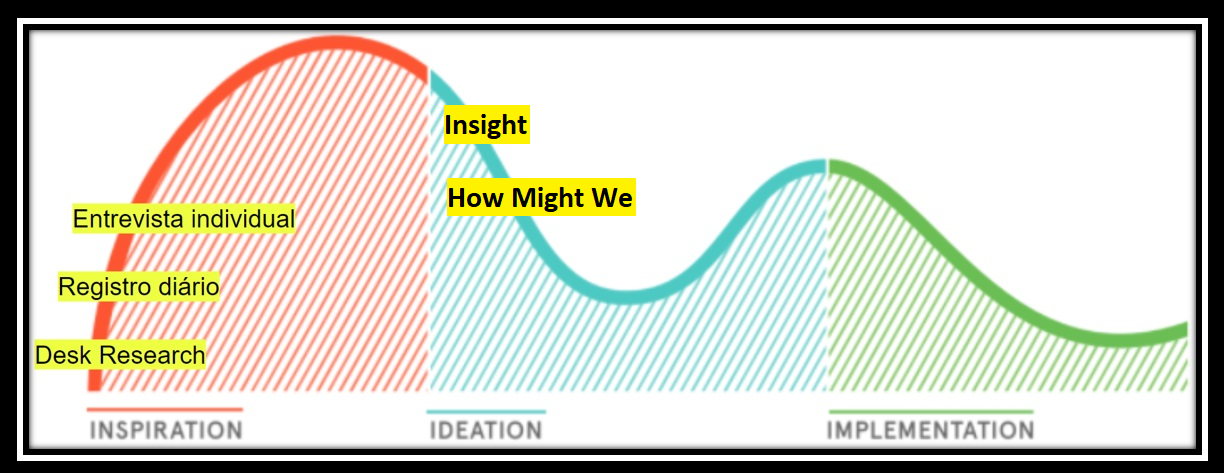
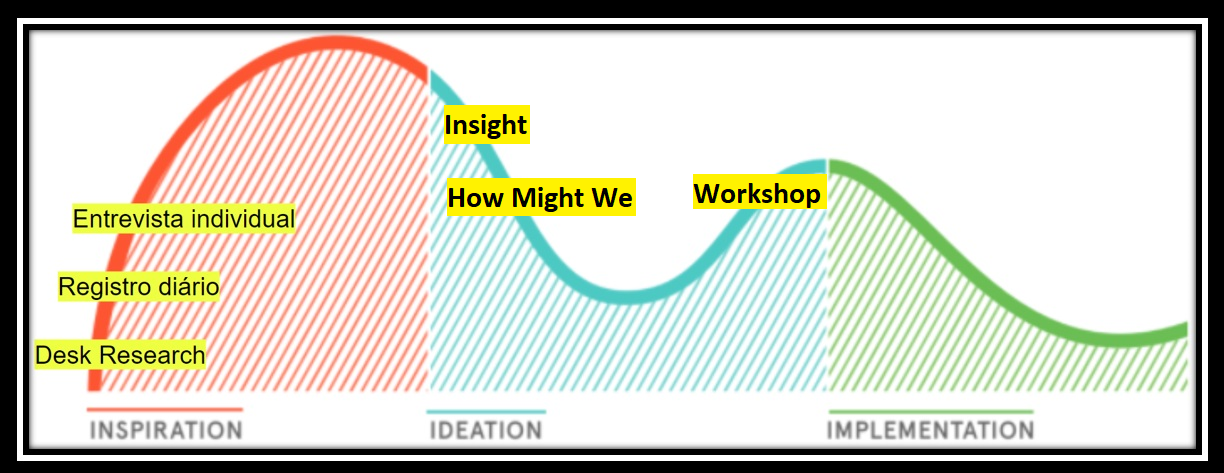
protótipo

Changed region(s): [[0.5588, 0.3552, 0.683, 0.444]]

diff --git a/designer-2021/index.html b/designer-2021/index.html
@@ -240,56 +240,44 @@
 								<h2 class="major">Ideação</h2>
 								<span class="image main"><img src="images/ideacao.png" alt="" /></span> <br>
 								<b> Na fase de ideação, com base nos achados da etapa de imersão, foram realizados os métodos de Insights e How Might We:</b><br>
-								<span class="image main"><img src="images/hmw.png" usemap="#workmap" /></span> <br>
-								<br>
+								<span class="image main"><img src="images/hmw.png" usemap="#workmap" /></span>
 								<map name="workmap">
 									<area shape="rect" coords="28,22,260,360" alt="insight" href="hmw/index.html">
 									<area shape="rect" coords="300,30,719,420" alt="hmw" href="hmw/hmw.html">
 								</map>
-
-								<p> A partir desses resultados, uma atividade de brainstorming foi realizada com participantes externos ao grupo.</p>
-								<br>
-								<ul>
+								<b> A partir desses resultados, uma atividade de brainstorming foi realizada com participantes externos ao grupo. </b>
+								<span class="image main" style="height:50%; width:50%"><a href="https://miro.com/app/board/o9J_l_3ort0=/"><img src="images/workshop.png" /></a></span> <br>
+								<ul style="text-align:justify">
 									<li><b>Preparação:</b> nesta etapa foi elaborado o Termo de Consentimento Livre e Esclarecido (TCLE) juntamente com as atividades a serem realizadas no dia do workshop. Assim como a definição dos critérios de seleção dos participantes: sendo estes pertencentes à comunidade acadêmica, estudantes experientes pertencentes a um programa de pós-graduação, sem limite de idade.</li><br>
-									<br><br><b>TCLE:</b>
+
+									<b>TCLE:</b>
 									<iframe width="100%" height="350" src="https://docs.google.com/forms/d/e/1FAIpQLSfYQ47xCeQxCdwYZt1cu3sOUtCcVfAcvQ1qX6X9wY6_yXmgyw/formResponse" frameBorder="0" scrolling="yes" allowFullScreen></iframe>
-									<li></b>Convite:</b> os convites foram realizados mediante recomendação de alunos e ou professores do programa da UFF.</li> <br>
+									<br>
+									<br>
+									<li><b>Convite:</b> os convites foram realizados mediante recomendação de alunos e ou professores do programa da UFF.</li>
+									<br>
 									<li><b>Aplicação de entrevistas:</b> a aplicação ocorreu utilizando a plataforma MIRO, com uma duração de 1h30, (link) e teve os seguintes passos:
-									<dl>
+									<dl><br>
 										<dd>a) Questionário pré.</dd><br>
 										<dd>b) Atividade de aquecimento: para o workshop onde os participantes responderam duas perguntas: “Se você tivesse três desejos, quais seriam eles?” e “se você tivesse um superpoder(es) para usar na pós-graduação (academia), qual seria?" No final os participantes comentaram brevemente sobre o que escreveram.</dd><br>
 										<dd>c) Introdução sobre o tema.</dd><br>
 										<dd>d) Leitura sobre o "pool de problemas”, onde os participantes precisavam ler as perguntas levantadas na etapa anterior de How Might We. Depois disso, os participantes tinham 5 minutos para escolherem apenas uma pergunta dentre as 15 opções. Depois, os participantes discutiram entre si para poderem escolher apenas duas perguntas para a próxima etapa. Os participantes precisavam defender o porque a pergunta selecionada teria uma importância maior frente a escolha dos outros participantes.</dd><br>
 										<dd>e) Brainstorming: nessa atividade os participantes levantavam ideias para as perguntas selecionadas na etapa anterior. A ideia era levantar o maior número de ideias possíveis. Após escreverem, os participantes comentaram sobre as ideias levantadas.</dd><br>
 										<dd>f) Feasibility: nesta etapa, cada participante possuía uma tabela com as opções: como ( Difícil de implementar. Esta categoria consiste em ideias inovadoras, mas inviáveis. É uma forma útil de definir metas ambiciosas para o futuro); agora (Fácil de implementar. Essas ideias são familiares, então você sabe que funcionam bem) e uau: Original e fácil de implementar. Esta categoria descreve ideias criativas que são relativamente simples de executar. Os participantes traziam as suas ideias levantadas e categorizam em termos de possibilidade de implantação, dificuldade e inovação. No fim, os participantes diziam o porquê da ideia estar em tal categoria.</dd><br>
-										<dd></dd><br>
+										<dd></dd>
 									</dl>
-
-									</li><br>
-									<li>Fechamento: aqui os participantes responderam quatro perguntas: visão geral sobre o workshop, pontos positivos e negativos, o que faltou no workshop e o que gostariam de ver, e o que causou surpresa? Também tinha uma opção livre onde os participantes podiam falar sobre o tema, workshop ou outra questão não relacionada a nenhum dos dois pontos.</li><br>
-									<li></li><br>
+									</li>
+									<li> <b>Fechamento:</b> aqui os participantes responderam quatro perguntas: visão geral sobre o workshop, pontos positivos e negativos, o que faltou no workshop e o que gostariam de ver, e o que causou surpresa? Também tinha uma opção livre onde os participantes podiam falar sobre o tema, workshop ou outra questão não relacionada a nenhum dos dois pontos.</li><br>
+									<li> <b>Análise:</b> no total foram 3 participantes: P1 (...), P2 (...), e P3. A duração do workshop foi de em torno de 1 hora e meia. A transcrição da mesma maneira que na etapa de imersão, foi realizada utilizando a ferramenta de transcrição do Office365. No entanto, dado o período curto da disciplina, não houve tempo hábil para correção da transcrição. Sendo disponibilizado o link para formulação do backlog dos materiais.</li><br>
 								</ul>
-
-
-
-
-
-
-
-
-
-
-
-
-
 							</article>
 
 						<!-- Implementação -->
 							<article id="implementacao">
 								<h2 class="major">Implementação</h2>
-								<h2 class="major">Ideação</h2>
-								<span class="image main"><img src="images/pic03.jpg" alt="" /></span>
-								<p>Lorem ipsum dolor sit amet, consectetur et adipiscing elit. Praesent eleifend dignissim arcu, at eleifend sapien imperdiet ac. Aliquam erat volutpat. Praesent urna nisi, fringila lorem et vehicula lacinia quam. Integer sollicitudin mauris nec lorem luctus ultrices. Aliquam libero et malesuada fames ac ante ipsum primis in faucibus. Cras viverra ligula sit amet ex mollis mattis lorem ipsum dolor sit amet.</p>
+								<span class="image main"><img src="images/imprementacao.png" alt="" /></span>
+								<b>Com base apenas nas atividades e post-its realizadas durante o workshop, os seguintes protótipos foram elaborados:</b>
+								<span class="image main"> <a href="https://miro.com/app/board/o9J_l964nKY=/"><img src="images/prototipo_p1_p2.jpg" alt="" /></a></span>
 							</article>
 
 						<!-- Turma 2021.1 -->
